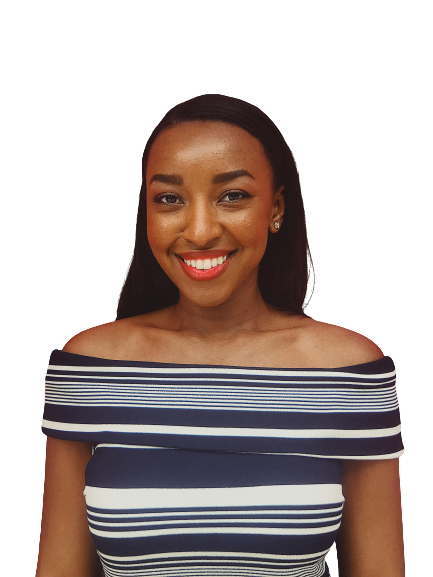
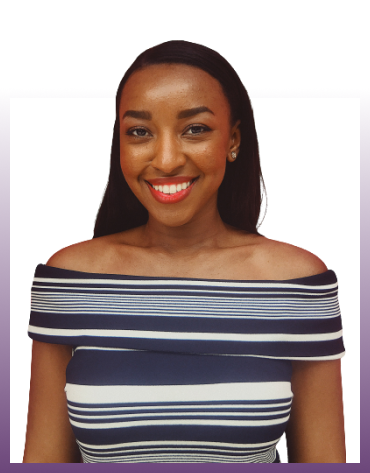
section four structured and styled

diff --git a/index.html b/index.html
@@ -48,10 +48,10 @@
     <main class="main">
         <section class="section section-one">
             <div class="container hook-container">
-                <!-- <h1 class="hook-title"><span class="auto-input-t clr-transition">Real ice cream for real ice cream lovers</span></h1>
-                <h2 class="hook-sub_title"><span class="auto-input clr-transition">Sweet ice cream for pleasure seekers.</span></h2> -->
-                <h1 class="hook-title"><span class="auto-input-t clr-transition"></span></h1>
-                <h2 class="hook-sub_title"><span class="auto-input clr-transition"></span></h2>
+                <h1 class="hook-title"><span class="auto-input-t clr-transition">Real ice cream for real ice cream lovers</span></h1>
+                <h2 class="hook-sub_title"><span class="auto-input clr-transition">Sweet ice cream for pleasure seekers.</span></h2>
+                <!-- <h1 class="hook-title"><span class="auto-input-t clr-transition"></span></h1>
+                <h2 class="hook-sub_title"><span class="auto-input clr-transition"></span></h2> -->
                 <div class="hero-btns-container">
                     <button class="button btn-hero btn-primary buy-hero-btn"><i class="bx bx-cart in-btn-icon"></i> BUY ONLINE</button>
                     <button class="button btn-hero btn-second-alt"><i class="bx bx-map in-btn-icon"></i> FIND IN STORE</button>
@@ -101,6 +101,27 @@
                 <p class="s-three-desc s-definition">The nearly -200 °C (-328 °F) liquid freezes the ingredients—sweet cream, flavoring, and handpicked mix-ins—almost instantaneously, creating tiny ice crystals and a smooth texture.</p>
                 <span class="s-three-price">12$</span>
                 <button class="button ad-buy-btn">Buy Now</button>
+            </div>
+        </section>
+
+        <!-- section four -->
+        <section class="section section-four container">
+            <div class="oath-container">
+                <h3 class="s-three-title s-four-title">Your ice cream store around the corner.</h3>
+                <p class="s-three-desc s-definition">We stands strong to satisfy customers, consumers and other stakeholders with high quality ice creams and superior services.</p>
+
+                <div class="employer-info">
+                    <div class="employer">
+                        <h4 class="name">John Doe Wireless</h4>
+                        <h5 class="title">Waiter manager</h5>
+                    </div>
+                    <div class="rate">
+                        <img src="./assets/images/rate.svg" alt="">
+                    </div>
+                </div>
+            </div>
+            <div class="waiter-img-container">
+                <img src="./assets/images/employer-lady.png" alt="">
             </div>
         </section>
     </main>

diff --git a/assets/css/style.css b/assets/css/style.css
@@ -438,16 +438,26 @@ header {
 
 /* ----- section three: Ad products section ----- */
 .section-three {
-    margin: 6rem 0;
+    margin: 5rem 0;
+    margin-bottom: 2rem;
     display: flex;
     flex-wrap: wrap;
     column-gap: 2rem;
     row-gap: 1.2rem;
 }
+@media screen  and (min-width: 843px) {
+    .section-three {
+        margin-top: 6rem;
+        margin-bottom: 0;
+        display: flex;
+        flex-wrap: wrap;
+        column-gap: 2rem;
+        row-gap: 1.2rem;
+    }
+}
 @media screen and (min-width: 1023px) {
     .section-three {
         align-items: flex-start;
-        justify-content: center;
     }
 }
 
@@ -465,20 +475,74 @@ header {
     flex-direction: column;
     row-gap: 1.5rem;
 }
-.ad-buy-btn {
-    background-color: var(--primary-clr);
-    color: var(--text-clr-bg);
-}
 .s-three-title {
     font-size: 2.5rem;
-    max-width: 19rem;
+    max-width: 20rem;
     color: var(--primary-clr-alt);
+}
+.s-three-price {
+    font-size: 1.4rem;
 }
 .ad-buy-btn {
     max-width: calc(147 * 0.06rem);
-    margin-top: 1rem;
+    margin-top: .8rem;
+    background-color: var(--primary-clr);
+    color: var(--text-clr-bg);
     transition: box-shadow 300ms;
 }
 .ad-buy-btn:hover {
     box-shadow: 5px 5px var(--text-clr);
+}
+
+/* ----- section four ----- */
+.section-four {
+    margin-bottom: 3rem;
+    background: url("../images/emp_vect.svg");
+    background-repeat: no-repeat;
+    background-size: cover;
+    background-attachment: scroll;
+    background-position: top;
+}
+.s-four-title {
+    max-width: 30rem;
+    margin-bottom: 1rem;
+}
+.employer-info {
+    margin-top: 2.5rem;
+    display: flex;
+    flex-wrap: wrap;
+    gap: 1rem;
+    align-items: center;
+    justify-content: space-between;
+}
+.employer .name {
+    color: var(--primary-clr-alt);
+    font-size: 1.3rem;
+}
+.employer .title {
+    font-size: 1.1rem;
+    margin-top: .5rem;
+}
+.rate img {
+    width: 100px;
+}
+.waiter-img-container img {
+    width: 100%;
+}
+@media screen  and (min-width: 392px) {
+    .waiter-img-container img {
+        width: 370px;
+    }
+}
+.section-four {
+    display: flex;
+    gap: 2rem;
+    flex-wrap: wrap;
+    align-items: center;
+    justify-content: space-between;
+}
+@media screen  and (min-width: 843px) {
+    .section-four {
+        flex-wrap: nowrap;
+    }
 }

diff --git a/assets/js/script.js b/assets/js/script.js
@@ -65,34 +65,34 @@ themeTogglers.addEventListener('click', () => {
     }
 });
 
-// auto type on hero page
-// hook title
-let typedT = new Typed(".auto-input-t", {
-    strings: ["Real ice cream for real ice cream lovers"],
-    typeSpeed: 100,
-    backSpeed: 100,
-    loop: false,
-    cursorChar: ''
-});
+// // auto type on hero page
+// // hook title
+// let typedT = new Typed(".auto-input-t", {
+//     strings: ["Real ice cream for real ice cream lovers"],
+//     typeSpeed: 100,
+//     backSpeed: 100,
+//     loop: false,
+//     cursorChar: ''
+// });
 
-// hook subtitle
-let typed = new Typed(".auto-input", {
-    strings: ["Sweet ice cream for pleasure seekers."],
-    typeSpeed: 100,
-    backSpeed: 100,
-    startDelay: 6000,
-    loop: false,
-    cursorChar: ''
-});
+// // hook subtitle
+// let typed = new Typed(".auto-input", {
+//     strings: ["Sweet ice cream for pleasure seekers."],
+//     typeSpeed: 100,
+//     backSpeed: 100,
+//     startDelay: 6000,
+//     loop: false,
+//     cursorChar: ''
+// });
 
-/* -- hide show hero buttons -- */
-// delay before showing them
-const heroButtonsContainer = document.querySelector('.hero-btns-container');
+// /* -- hide show hero buttons -- */
+// // delay before showing them
+// const heroButtonsContainer = document.querySelector('.hero-btns-container');
 
-var delayTime = 11000;
+// var delayTime = 11000;
 
-heroButtonsContainer.style.transition = "opacity 1000ms";
+// heroButtonsContainer.style.transition = "opacity 1000ms";
 
-setTimeout(() => {
-    heroButtonsContainer.style.opacity = 1
-}, delayTime);
+// setTimeout(() => {
+//     heroButtonsContainer.style.opacity = 1
+// }, delayTime);
